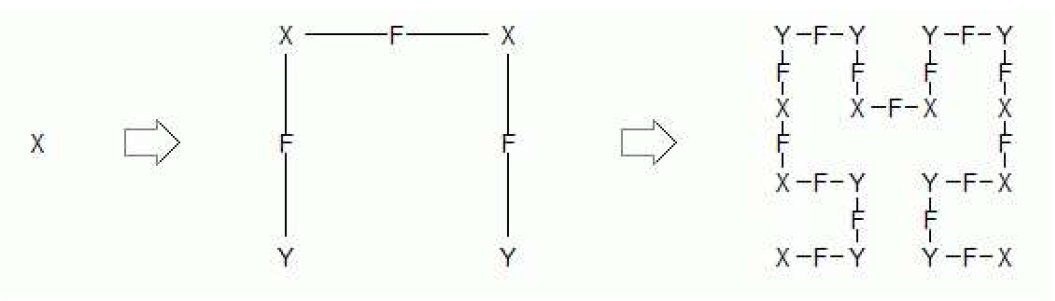
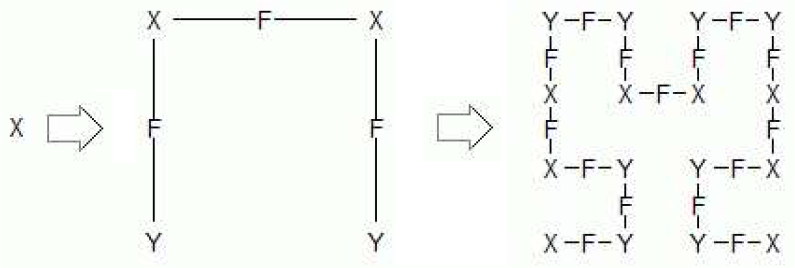
Bildbreite kleiner

diff --git a/anwendungenmath/fractal/hilbert/info.html b/anwendungenmath/fractal/hilbert/info.html
@@ -26,7 +26,7 @@ generatorX = "LYFRXFXRFYL"<br>
 generatorY = "RXFLYFYLFXR"</p>
 <p>Die Zeichen X  und Y steuern den Ersetzungsvorgang in den Ecken der Kurve bei der Rekursion.</p>
 <p>Erste und zweite Ordnung des L-Systems mit dazugehöriger Hilbertkurve:<br>
-<img src="L-System.png" width=400 height=114 alt="L-System">
+<img src="L-System.png" width=350 height=118 alt="L-System">
 </p>
 <p>Sinngemäss erfolgt die Beschreibung und Konstruktion der Peanokurve.</p>
 
